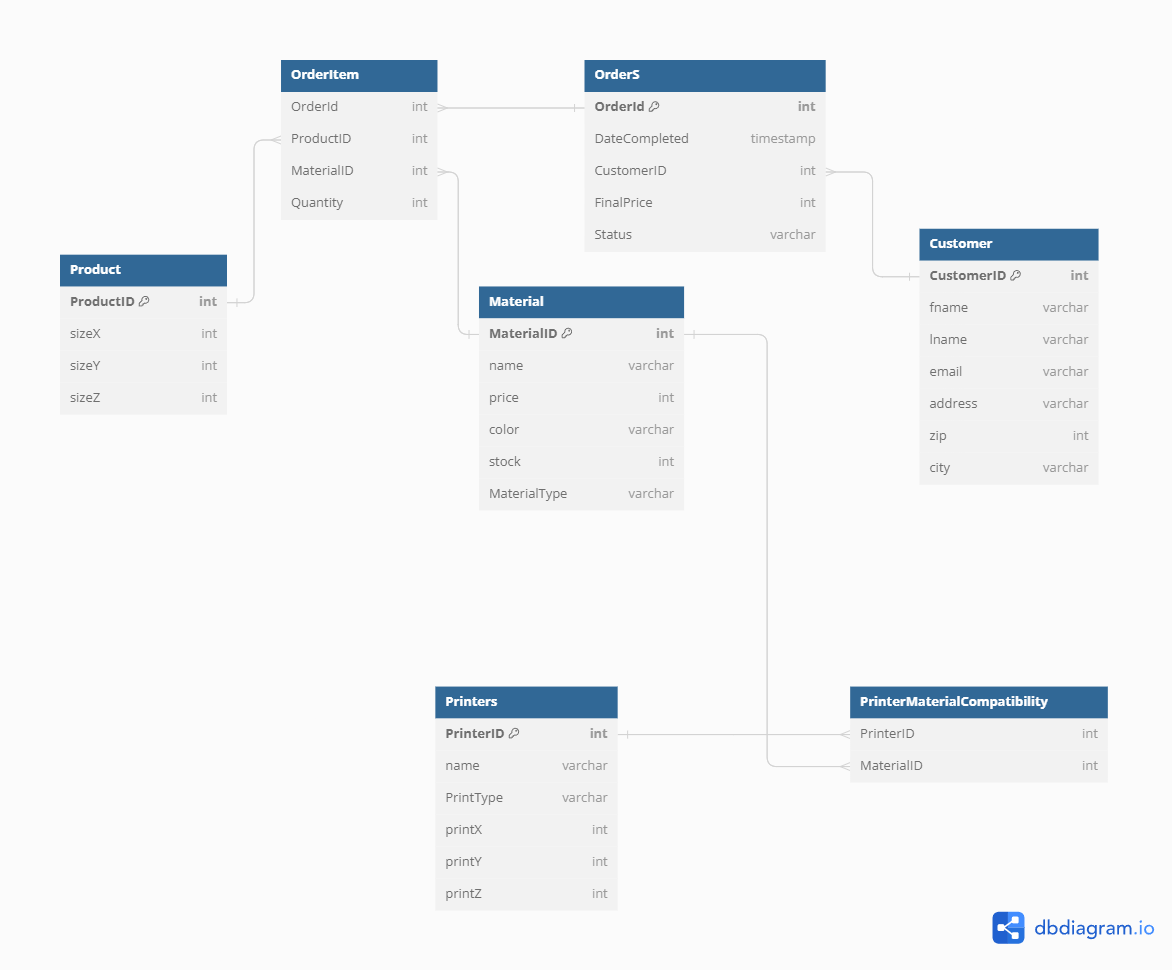
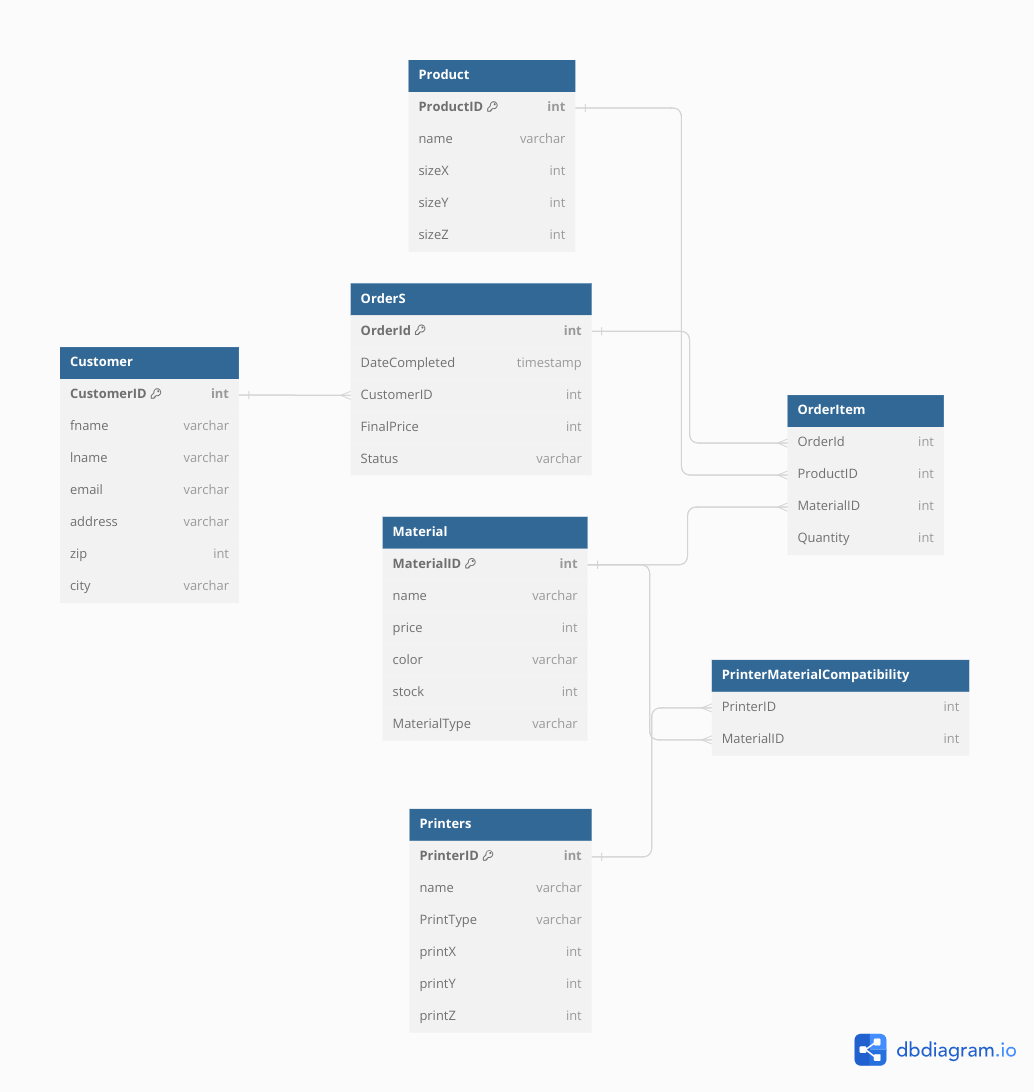
wip

diff --git a/readme.md b/readme.md
@@ -14,7 +14,7 @@ Il faut faire intention car une FDM ne peut pas imprimer avec de la résine. Le 
 - **Material** { MaterialID, name, price, color, stock}
 - **PrinterMaterialCompatibility** {PrinterID, MaterialID}
 
-<iframe width="560" height="315" src='https://dbdiagram.io/e/655f5db43be149578799ec1f/6565c4953be1495787e1cb65'> </iframe>
+![DB Schema](3D.png)
 
 ### **Règles Métier**
 
@@ -22,6 +22,7 @@ Il faut faire intention car une FDM ne peut pas imprimer avec de la résine. Le 
 - Prix: Calculé selon taille du produit
 
 ### **Challenges**
+
 - Les liens entre les produits qui sont liés 
 
 ### **Fonctionnalités**
